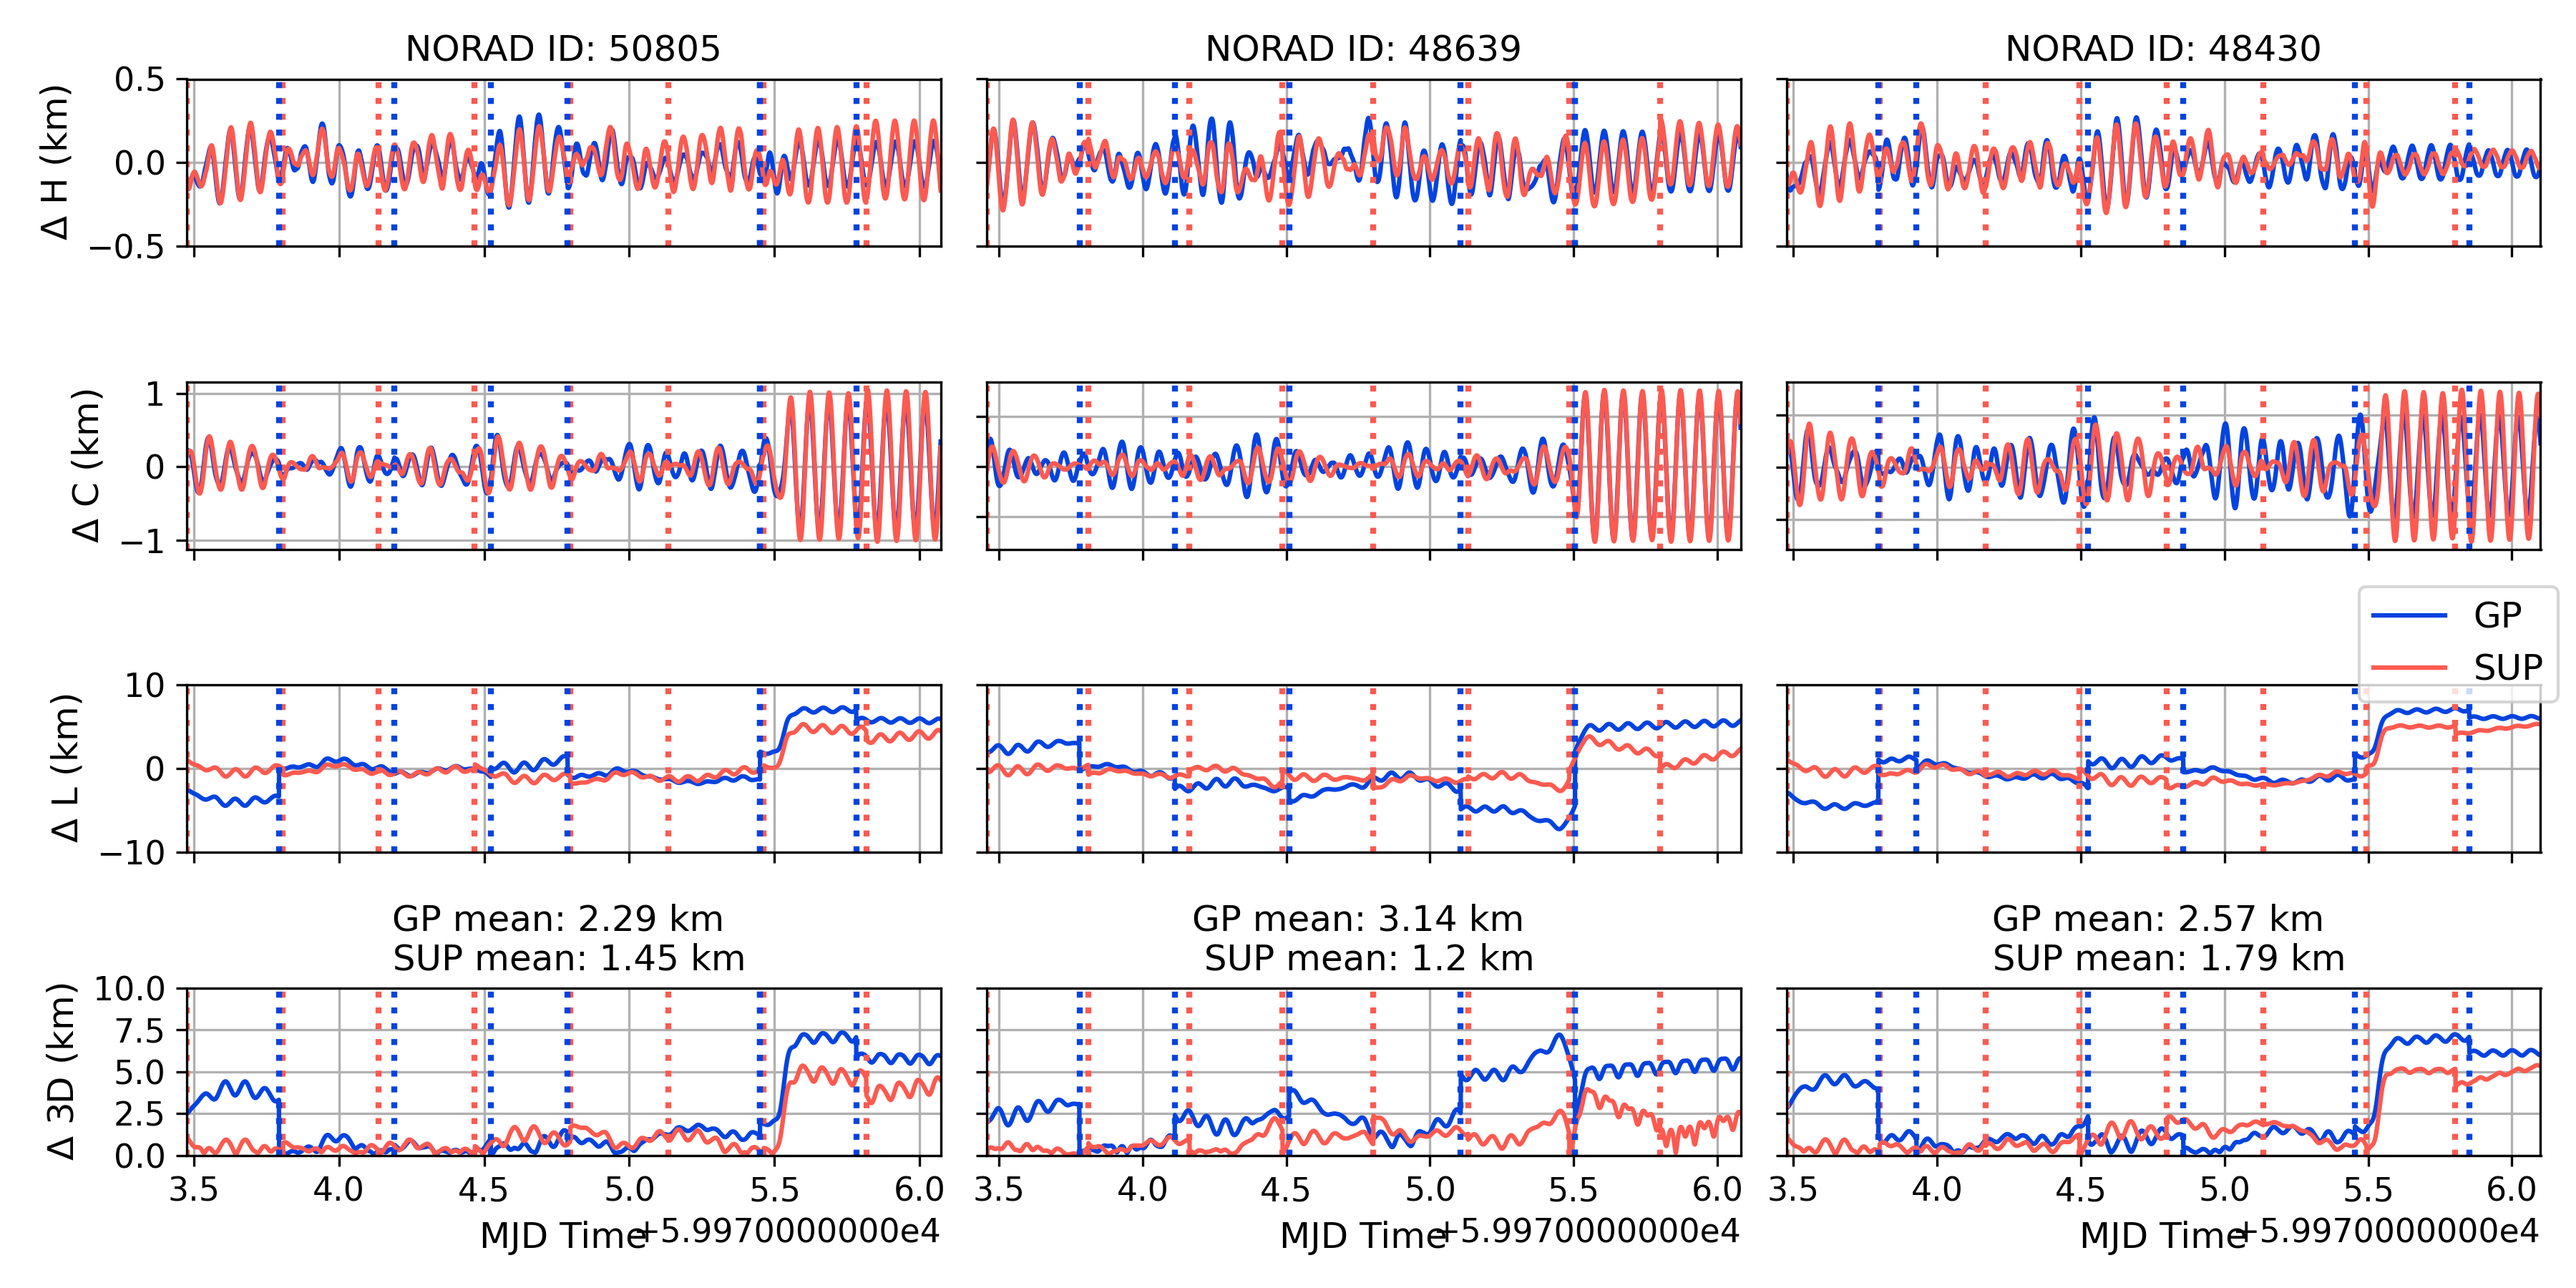
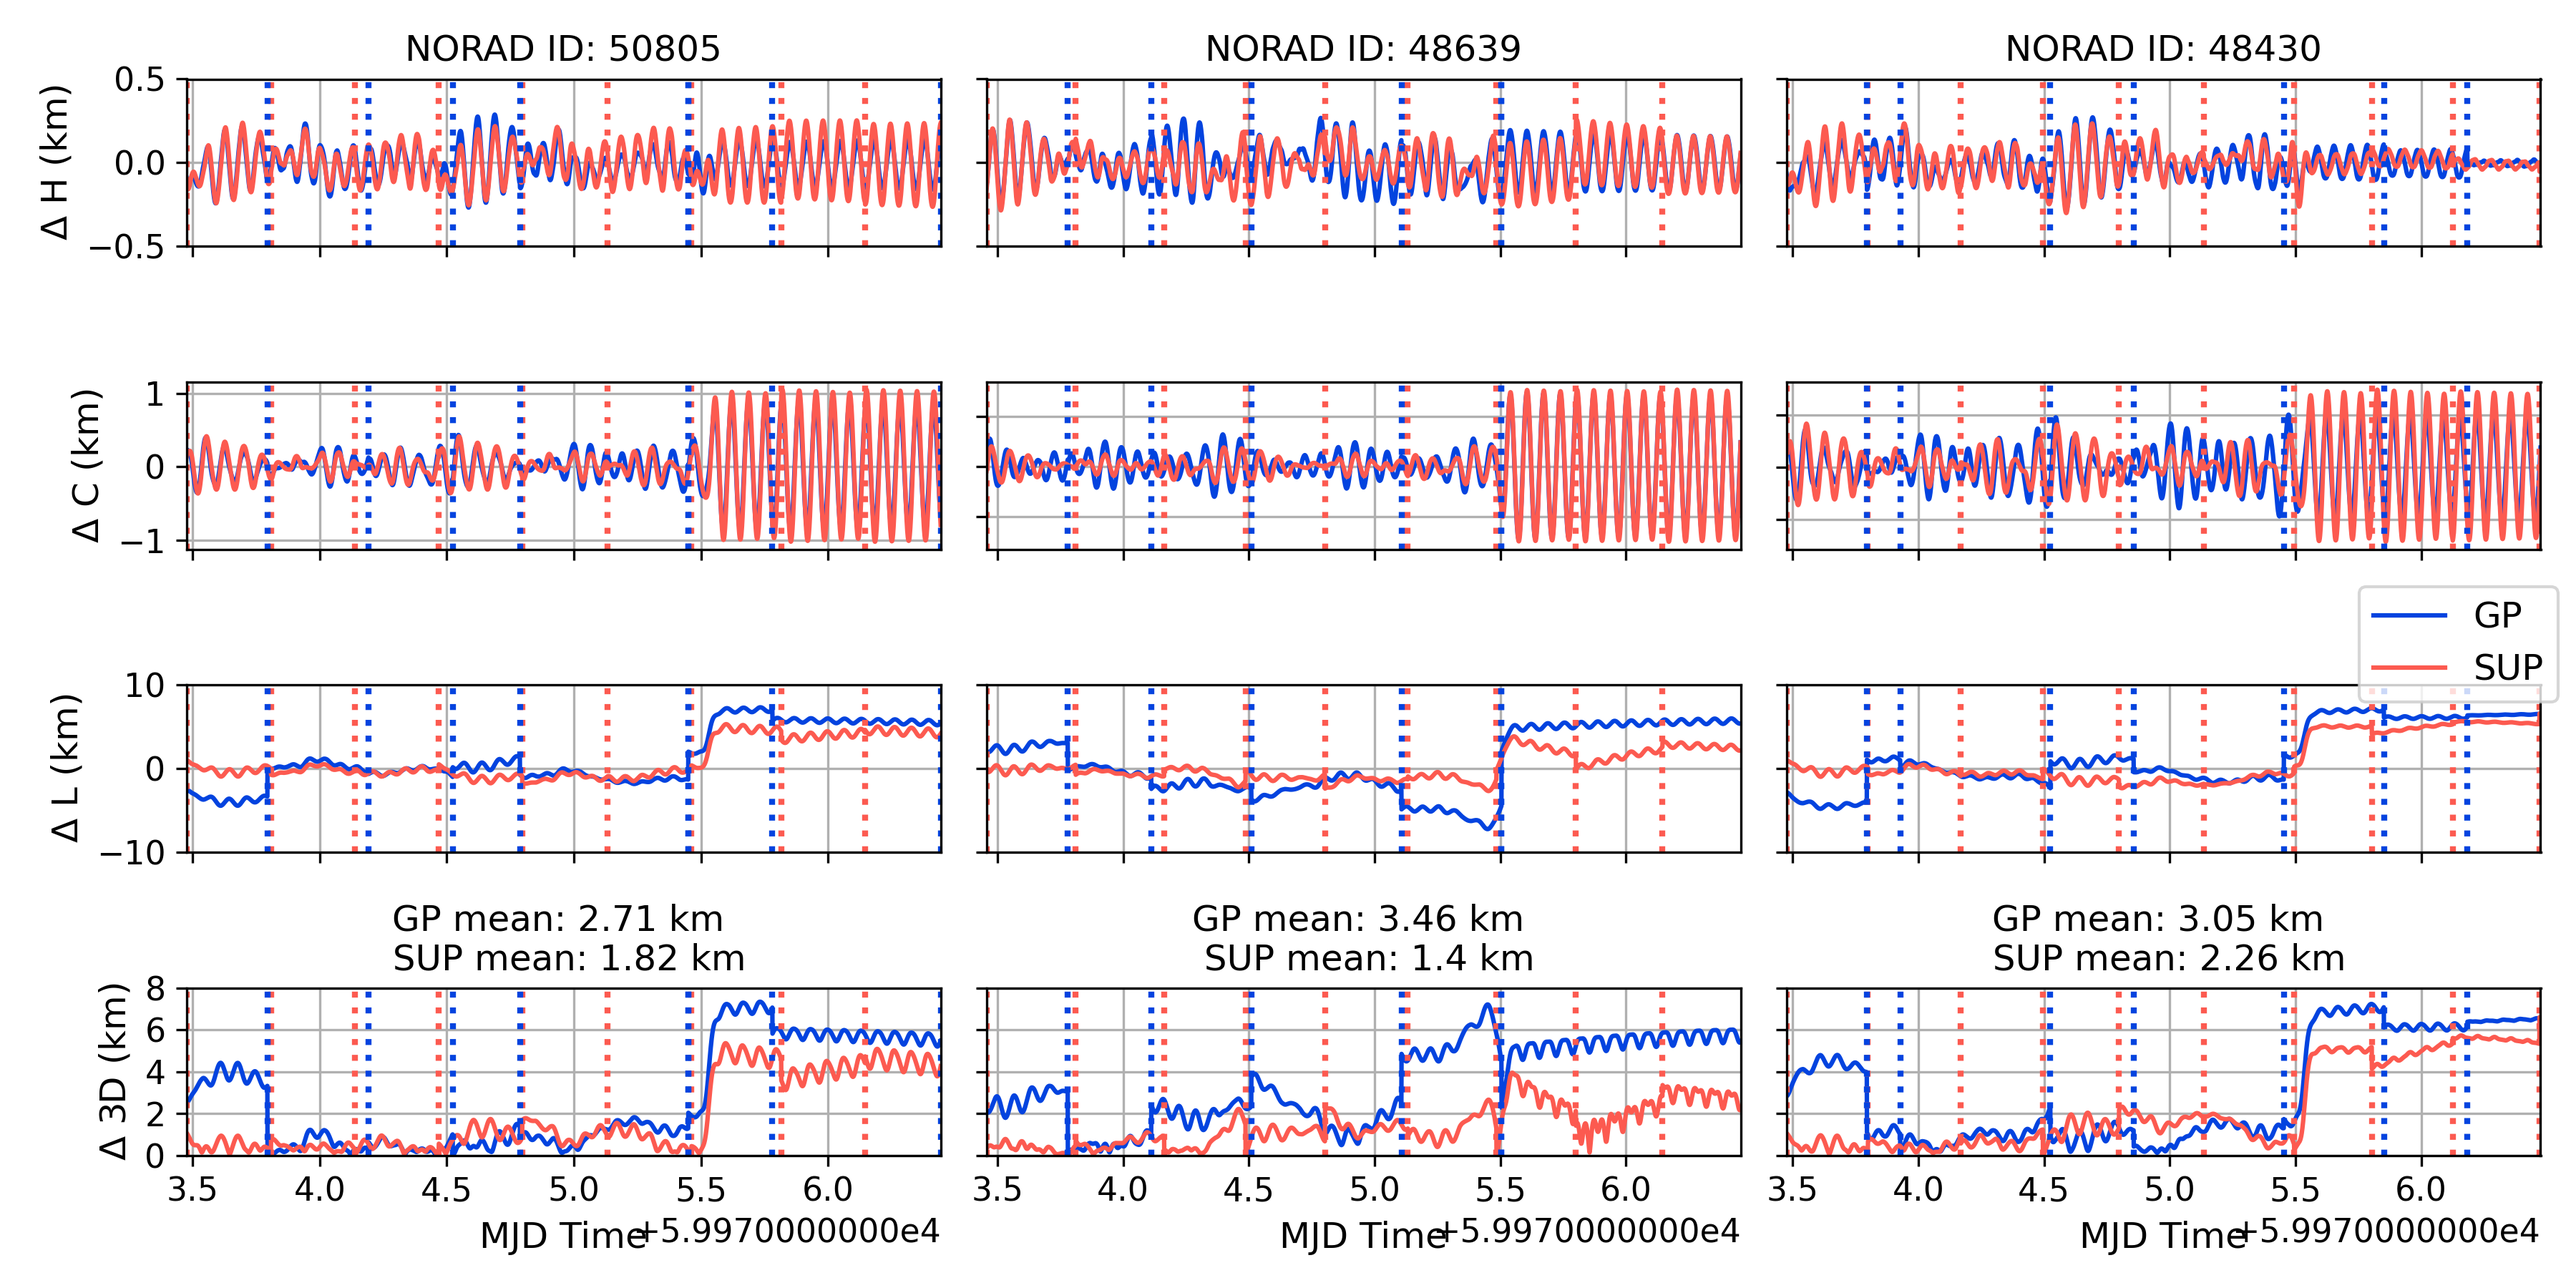
fix benchmark plot axes

diff --git a/source/tools/plotting_tools.py b/source/tools/plotting_tools.py
@@ -781,7 +781,7 @@ def benchmark_plot():
         ax[3, i].grid(True)
         ax[3, i].set_ylim(0, 8)
         # set ticks every 2.5 on the y axis
-        ax[3, i].yaxis.set_ticks(np.arange(0, 10.1, 2.5))
+        ax[3, i].yaxis.set_ticks(np.arange(0, 8.1, 2))
         # set x-axis limits to be the max and min of the mjd_time column
         ax[3, i].set_xlim(min(all_triple_ephems[i]['mjd_time']), max(all_triple_ephems[i]['mjd_time']))
         # include a common x label for the bottom row make it not scientific notation

diff --git a/source/main.py b/source/main.py
@@ -74,7 +74,7 @@ def main ():
 
 
 if __name__ == "__main__":
-    # main()
+    main()
     
 #   Unhash to run the profiler
-    cProfile.run('main()')
+    # cProfile.run('main()')
